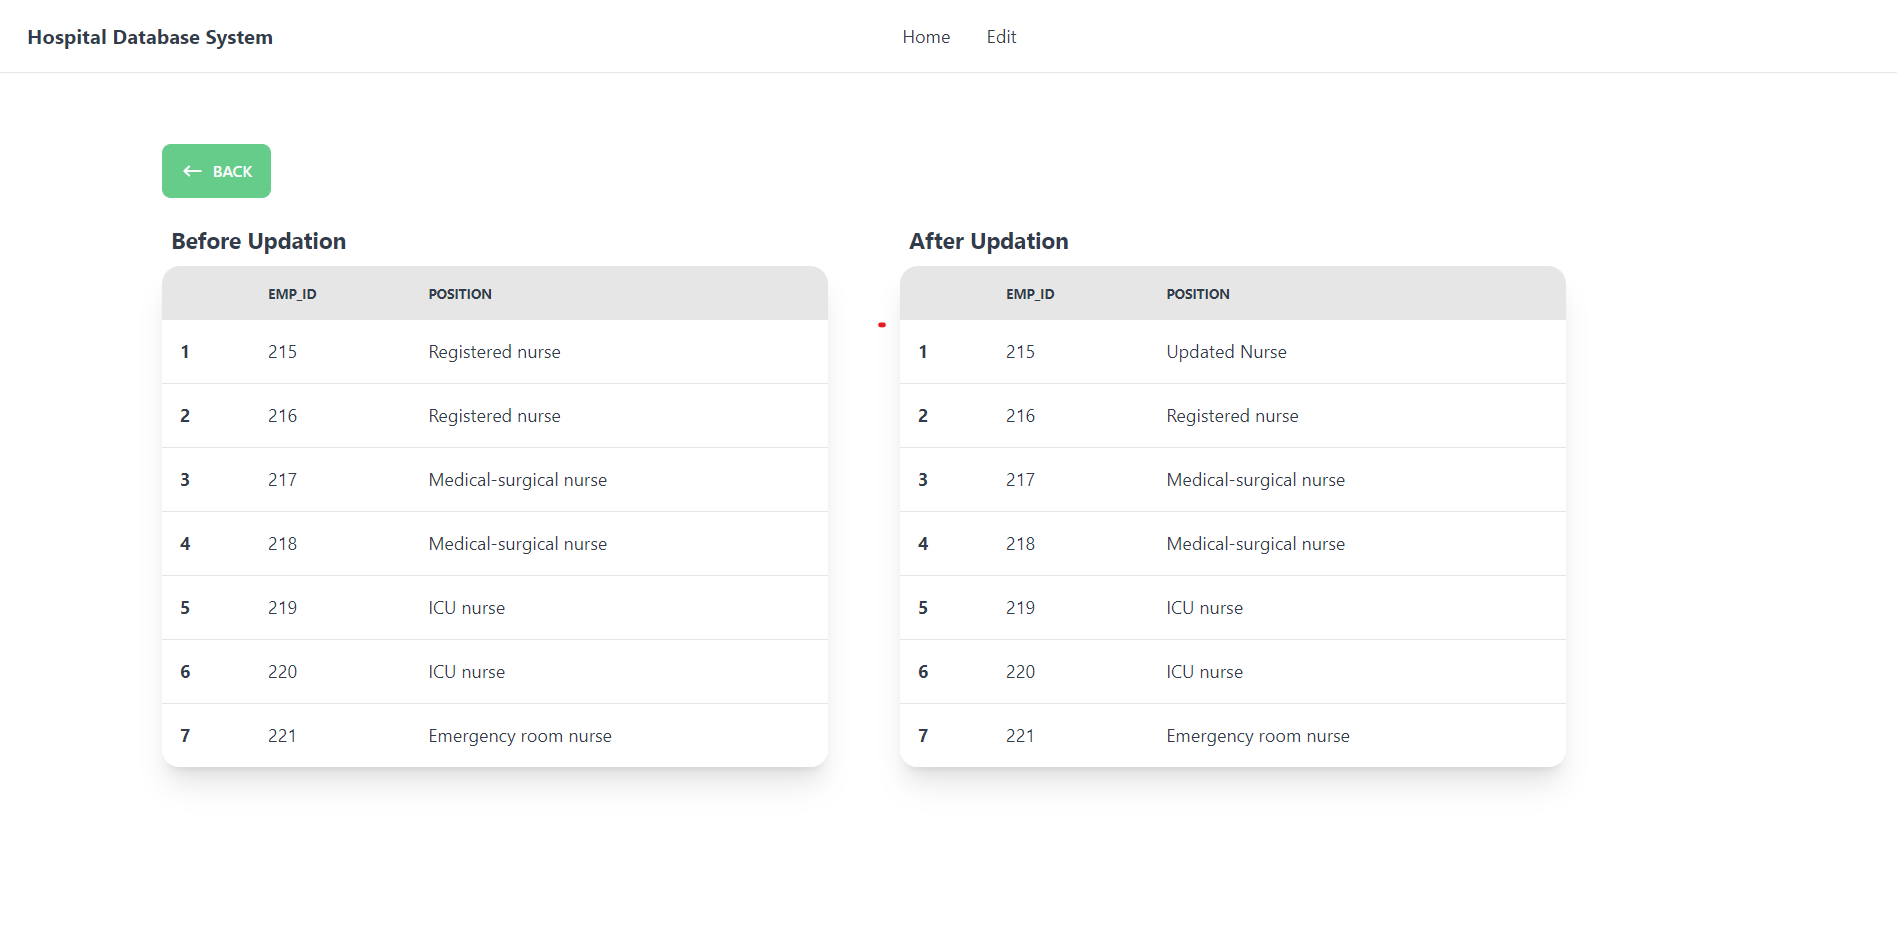
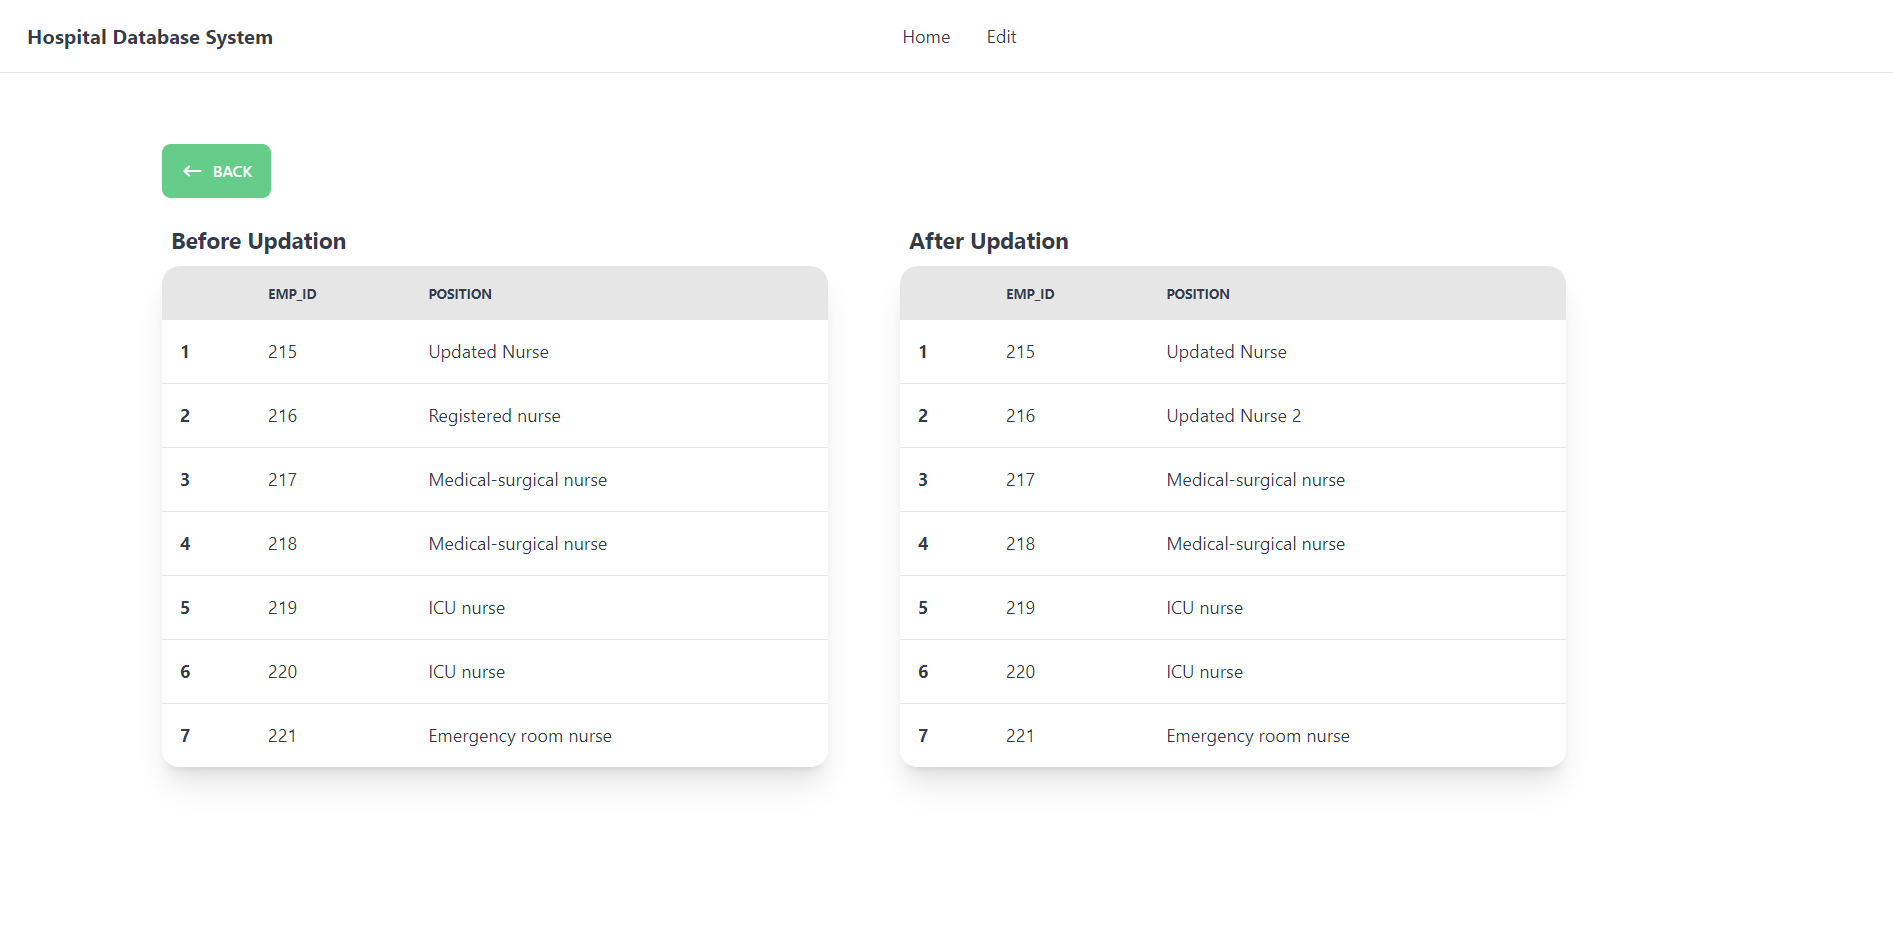
added images

diff --git a/README.md b/README.md
@@ -72,8 +72,11 @@ python3 web_app.py
 ## Insert Successful
 ![](images/insert_successful.png)
 
-## Update Entry
+## Pick entry for updation
 ![](images/update_table.png)
+
+## Update Entry
+![](images/update_entry.png)
 
 ## Update Successful
 ![](images/update_successful.png)
